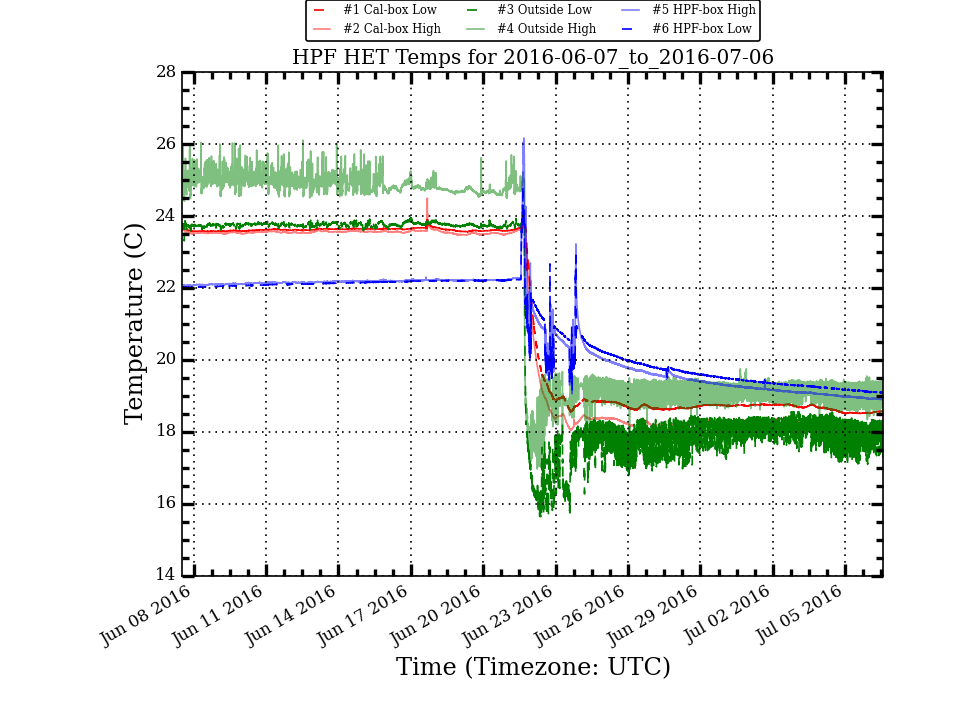
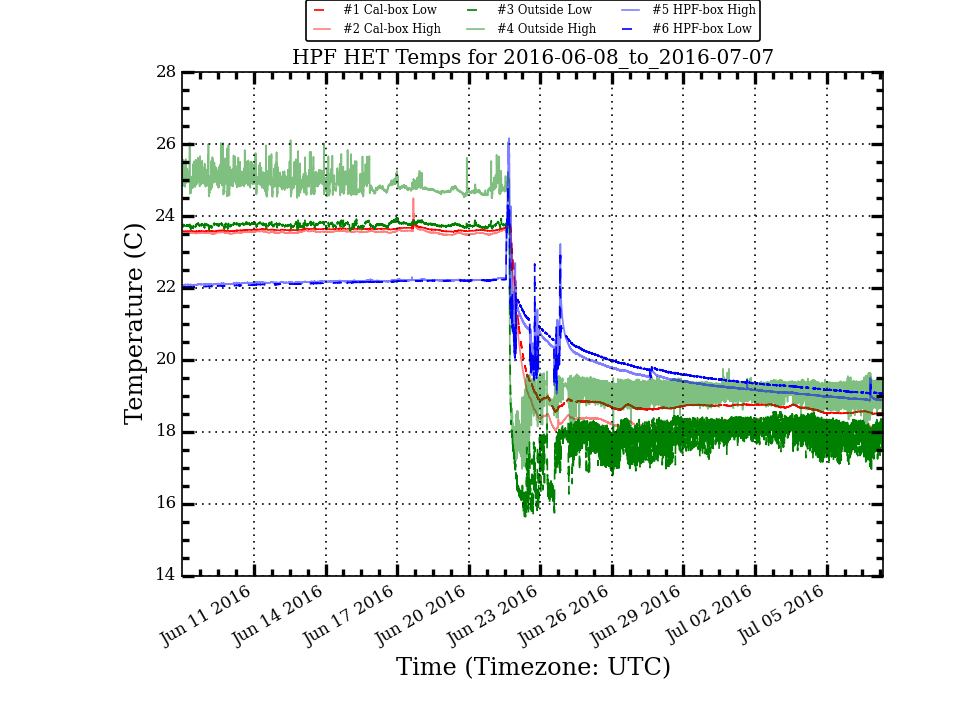
Update HPF Temp Plots

diff --git a/research/hpf_temps/plots/LakeShoreLogTotal_week_stats.html b/research/hpf_temps/plots/LakeShoreLogTotal_week_stats.html
@@ -10,56 +10,56 @@
  </TR>
  <TR>
   <TD>Cal_Low</TD>
-  <TD>18.670</TD>
-  <TD>0.092</TD>
-  <TD>18.712</TD>
+  <TD>18.643</TD>
+  <TD>0.098</TD>
+  <TD>18.666</TD>
   <TD>18.774</TD>
-  <TD>18.513</TD>
-  <TD>0.261</TD>
+  <TD>18.505</TD>
+  <TD>0.269</TD>
  </TR>
  <TR>
   <TD>Cal_High</TD>
-  <TD>18.257</TD>
-  <TD>0.092</TD>
-  <TD>18.295</TD>
+  <TD>18.234</TD>
+  <TD>0.096</TD>
+  <TD>18.252</TD>
   <TD>18.374</TD>
   <TD>18.087</TD>
   <TD>0.287</TD>
  </TR>
  <TR>
   <TD>Out_Low</TD>
-  <TD>18.070</TD>
-  <TD>0.256</TD>
-  <TD>18.122</TD>
+  <TD>18.042</TD>
+  <TD>0.282</TD>
+  <TD>18.102</TD>
   <TD>18.588</TD>
-  <TD>17.031</TD>
-  <TD>1.557</TD>
+  <TD>16.962</TD>
+  <TD>1.626</TD>
  </TR>
  <TR>
   <TD>Out_High</TD>
-  <TD>19.126</TD>
-  <TD>0.204</TD>
-  <TD>19.164</TD>
-  <TD>19.754</TD>
+  <TD>19.114</TD>
+  <TD>0.219</TD>
+  <TD>19.157</TD>
+  <TD>19.646</TD>
   <TD>18.042</TD>
-  <TD>1.712</TD>
+  <TD>1.604</TD>
  </TR>
  <TR>
   <TD>HPF_High</TD>
-  <TD>19.096</TD>
-  <TD>0.115</TD>
-  <TD>19.098</TD>
-  <TD>19.325</TD>
-  <TD>18.904</TD>
-  <TD>0.421</TD>
+  <TD>19.047</TD>
+  <TD>0.105</TD>
+  <TD>19.047</TD>
+  <TD>19.506</TD>
+  <TD>18.874</TD>
+  <TD>0.632</TD>
  </TR>
  <TR>
   <TD>HPF_Low</TD>
-  <TD>19.281</TD>
-  <TD>0.115</TD>
-  <TD>19.282</TD>
-  <TD>19.503</TD>
-  <TD>19.090</TD>
-  <TD>0.413</TD>
+  <TD>19.229</TD>
+  <TD>0.103</TD>
+  <TD>19.230</TD>
+  <TD>19.449</TD>
+  <TD>19.038</TD>
+  <TD>0.411</TD>
  </TR>
 </TABLE>

diff --git a/research/hpf_temps/plots/LakeShoreLogTotal_month_stats.html b/research/hpf_temps/plots/LakeShoreLogTotal_month_stats.html
@@ -10,56 +10,56 @@
  </TR>
  <TR>
   <TD>Cal_Low</TD>
-  <TD>21.182</TD>
-  <TD>2.427</TD>
-  <TD>21.242</TD>
+  <TD>21.073</TD>
+  <TD>2.431</TD>
+  <TD>19.258</TD>
   <TD>24.019</TD>
-  <TD>18.513</TD>
-  <TD>5.506</TD>
+  <TD>18.505</TD>
+  <TD>5.514</TD>
  </TR>
  <TR>
   <TD>Cal_High</TD>
-  <TD>20.926</TD>
-  <TD>2.609</TD>
-  <TD>20.812</TD>
+  <TD>20.809</TD>
+  <TD>2.611</TD>
+  <TD>18.734</TD>
   <TD>24.494</TD>
   <TD>18.048</TD>
   <TD>6.446</TD>
  </TR>
  <TR>
   <TD>Out_Low</TD>
-  <TD>20.715</TD>
-  <TD>2.999</TD>
-  <TD>18.406</TD>
+  <TD>20.589</TD>
+  <TD>2.993</TD>
+  <TD>18.338</TD>
   <TD>24.123</TD>
   <TD>15.646</TD>
   <TD>8.477</TD>
  </TR>
  <TR>
   <TD>Out_High</TD>
-  <TD>21.899</TD>
-  <TD>2.921</TD>
-  <TD>19.455</TD>
+  <TD>21.775</TD>
+  <TD>2.914</TD>
+  <TD>19.400</TD>
   <TD>26.107</TD>
   <TD>16.974</TD>
   <TD>9.133</TD>
  </TR>
  <TR>
   <TD>HPF_High</TD>
-  <TD>20.872</TD>
-  <TD>1.400</TD>
-  <TD>21.349</TD>
+  <TD>20.800</TD>
+  <TD>1.419</TD>
+  <TD>20.856</TD>
   <TD>26.165</TD>
-  <TD>18.904</TD>
-  <TD>7.261</TD>
+  <TD>18.874</TD>
+  <TD>7.291</TD>
  </TR>
  <TR>
   <TD>HPF_Low</TD>
-  <TD>20.927</TD>
-  <TD>1.281</TD>
-  <TD>21.429</TD>
+  <TD>20.860</TD>
+  <TD>1.300</TD>
+  <TD>20.854</TD>
   <TD>24.868</TD>
-  <TD>19.090</TD>
-  <TD>5.778</TD>
+  <TD>19.038</TD>
+  <TD>5.830</TD>
  </TR>
 </TABLE>
